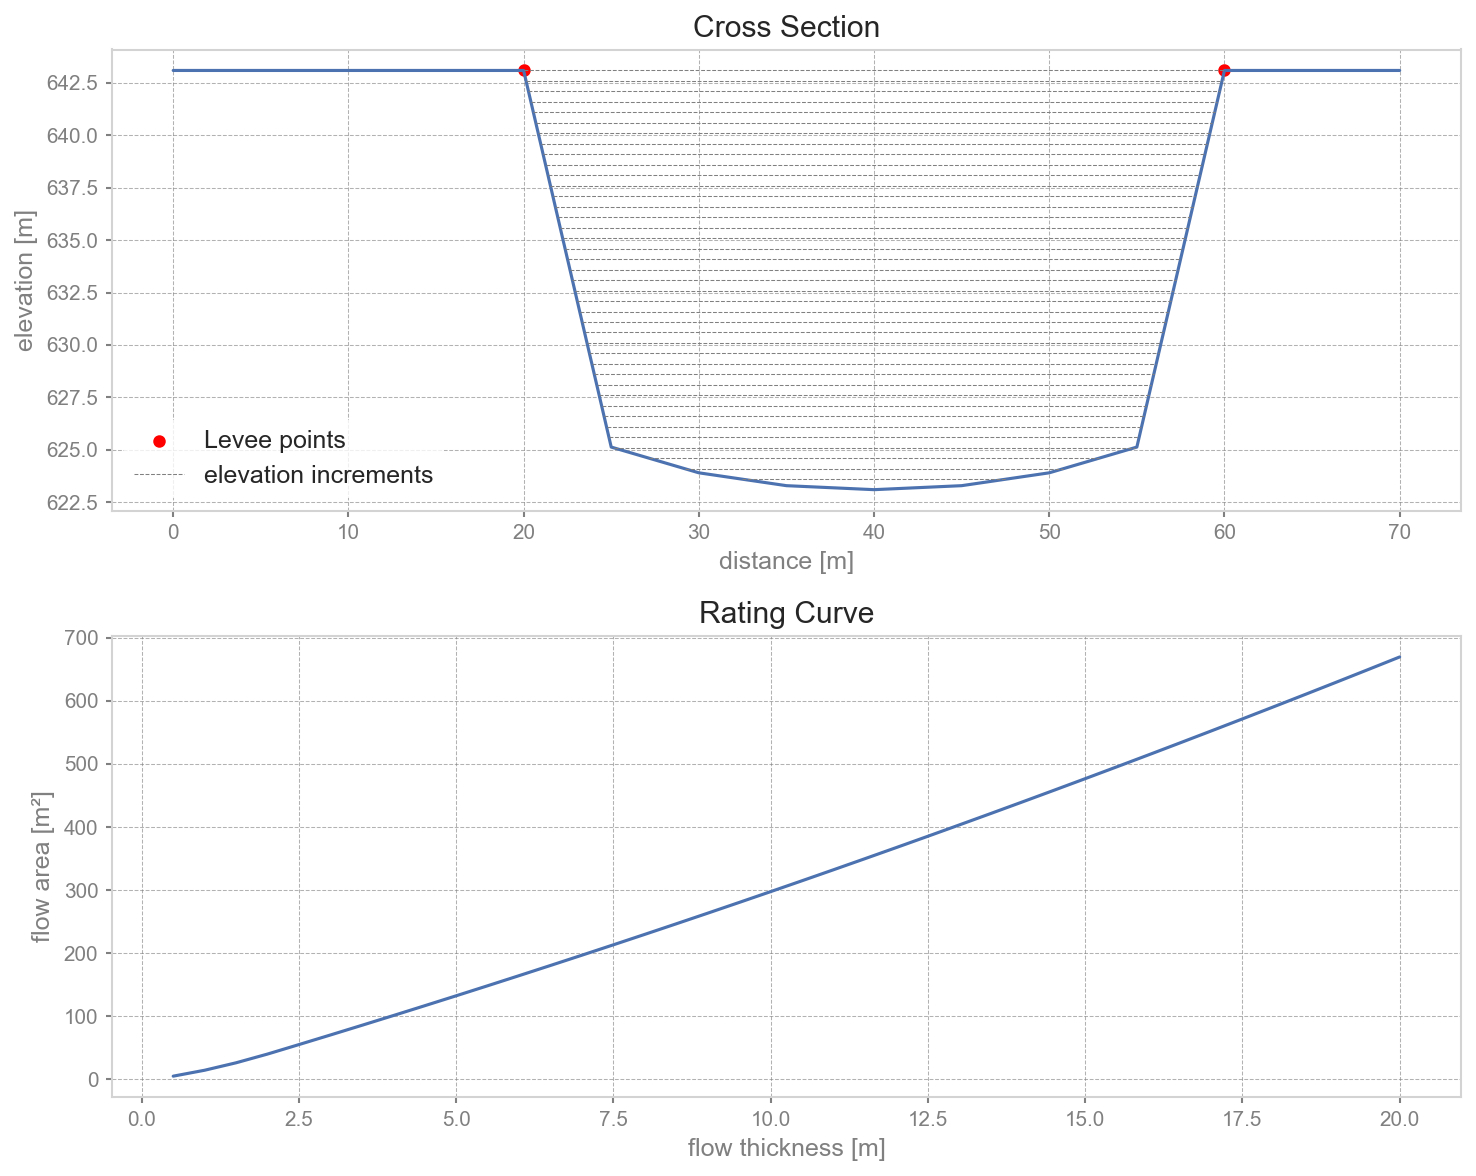
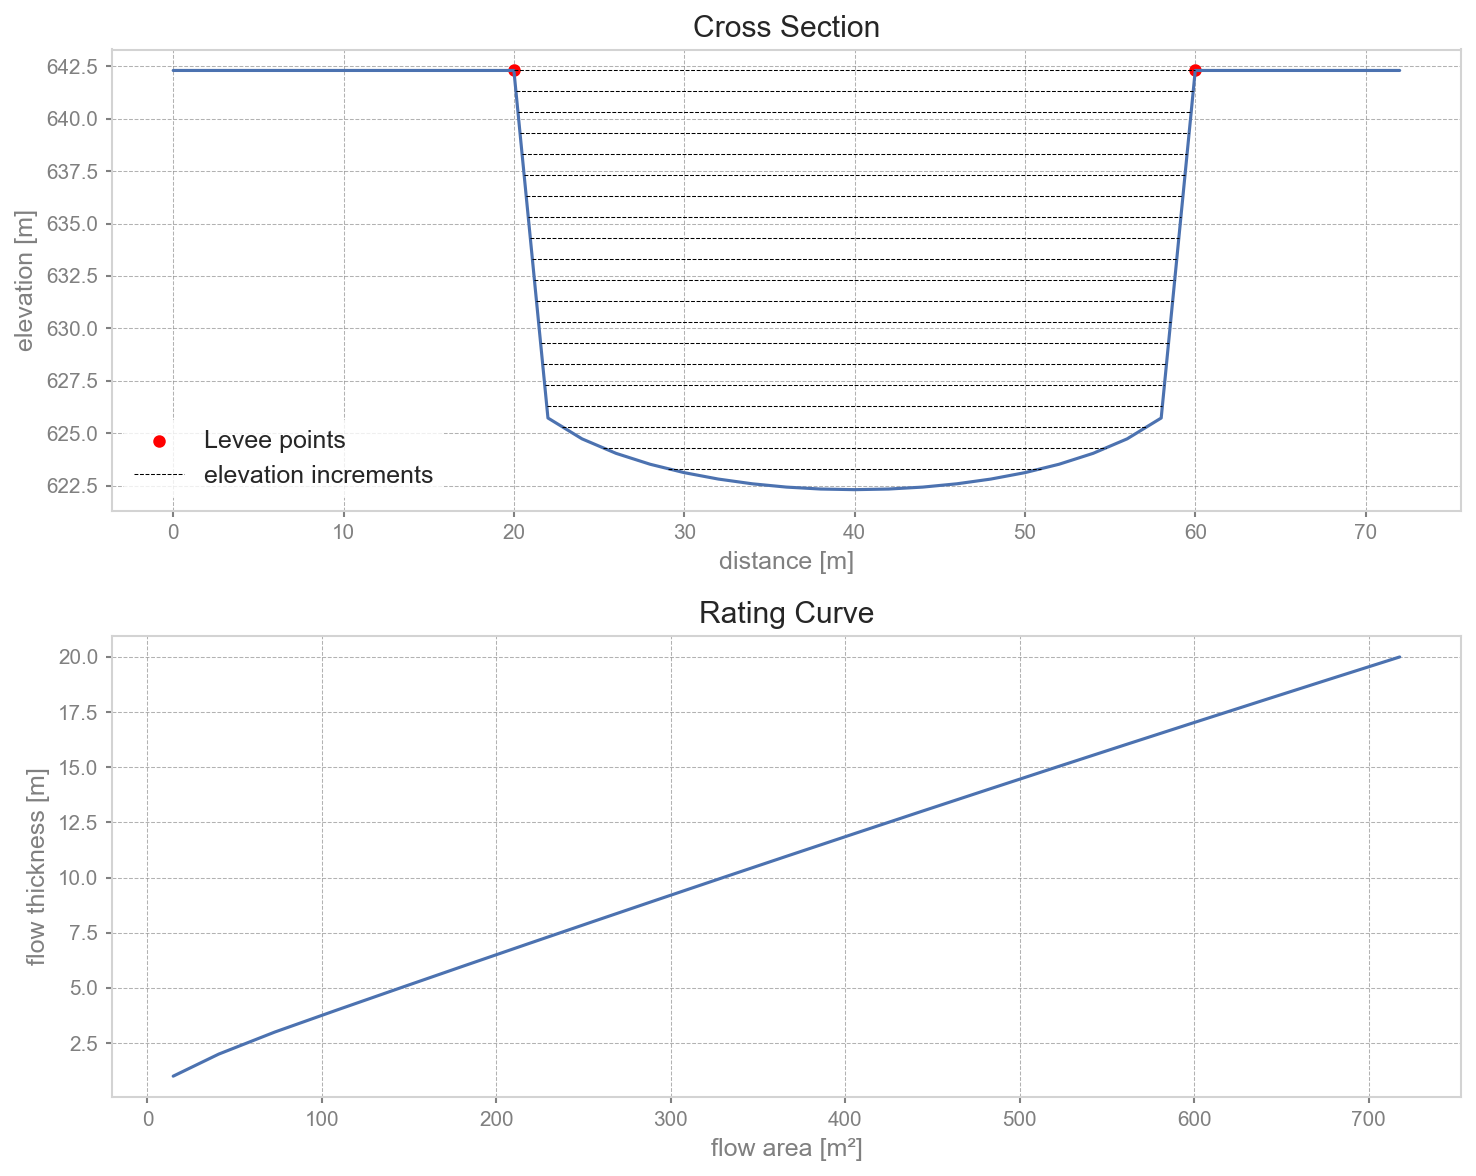
switch axes labels in rating curve plot

diff --git a/debrisframe/in2TopoHyd/in2TopoHyd.py b/debrisframe/in2TopoHyd/in2TopoHyd.py
@@ -113,7 +113,7 @@ def assignRasterCoords(cellSize, releaseLine):
     return releaseLine
 
 
-def computeSubArea(elevation, distance, surfElev, wetCellIdx, idx):
+def computeSubArea(elevation, distance, surfElev, idLevee, wetCellIdx, idx):
     """
     Computes flow subareas at the boundaries of a wetted cross section
     Handles the first (0) and last element (-1) of an index array
@@ -126,6 +126,8 @@ def computeSubArea(elevation, distance, surfElev, wetCellIdx, idx):
         the path along (distance) along the cross-section cells
     surfElev: float
         surface elevation of debris flow
+    idLevee: 1D-array
+        indices of levee points
     wetCellIdx: 1D-array
         indices of wetted cells
     idx: int
@@ -159,6 +161,9 @@ def computeSubArea(elevation, distance, surfElev, wetCellIdx, idx):
     else:
         dx = th / slope
 
+    if cellIdx in idLevee:
+        dx = 0.0
+
     subArea = 0.5 * th * dx
 
     return subArea, dx
@@ -166,7 +171,7 @@ def computeSubArea(elevation, distance, surfElev, wetCellIdx, idx):
 
 def computeRatingCurve(crossSection, topoHydCfg):
     """
-    compute relation between given discharge and flow thickness
+    compute relation between flow area and flow thickness
     in a given topographic cross section
 
     Parameters
@@ -217,7 +222,7 @@ def computeRatingCurve(crossSection, topoHydCfg):
         # search only in area between the two levee points
         idx = np.where(elevation[min(idLevee) : max(idLevee) + 1] <= surfElev)[0]
         idx = idx + min(idLevee)
-        # find breaking points in elevation array which lie over surfElev due to unevenness of ground 
+        # find breaking points in elevation array which lie over surfElev due to unevenness of ground
         idxOver = np.where(np.diff(idx) != 1)[0]
         # get subarrays between breaking points
         idxSub = np.split(idx, idxOver + 1)
@@ -237,10 +242,20 @@ def computeRatingCurve(crossSection, topoHydCfg):
             # if the thickness at the very left and the very right cell is still > 0,
             # there are remaining subareas on both sides that have to be considered
             areaLeft, dxLeft = computeSubArea(
-                elevation=elevation, distance=distance, surfElev=surfElev, wetCellIdx=sub, idx=0
+                elevation=elevation,
+                distance=distance,
+                surfElev=surfElev,
+                idLevee=idLevee,
+                wetCellIdx=sub,
+                idx=0,
             )
             areaRight, dxRight = computeSubArea(
-                elevation=elevation, distance=distance, surfElev=surfElev, wetCellIdx=sub, idx=-1
+                elevation=elevation,
+                distance=distance,
+                surfElev=surfElev,
+                idLevee=idLevee,
+                wetCellIdx=sub,
+                idx=-1,
             )
 
             # get cell elevations and distances between cells
@@ -696,7 +711,7 @@ def in2TopoHydMain(debrisDir, topoHydCfg, debrisCfg):
 
     """
 
-    #TODO: # Clean input directory(ies) of old work files?
+    # TODO: # Clean input directory(ies) of old work files?
     # initProj.cleanSingleAvaDir(debrisDir, deleteOutput=False)
 
     # create output directory
@@ -712,7 +727,7 @@ def in2TopoHydMain(debrisDir, topoHydCfg, debrisCfg):
     meshCellSize = debrisCfg.getfloat("com1DFA_com1DFA_override", "meshCellSize")
 
     if cellsize != meshCellSize:
-        #TODO: get fallback values from default config file?
+        # TODO: get fallback values from default config file?
         meshCellSizeThreshold = debrisCfg["com1DFA_com1DFA_override"].get(
             "meshCellSizeThreshold", fallback="0.001"
         )

diff --git a/debrisframe/in1Utils/plotUtils.py b/debrisframe/in1Utils/plotUtils.py
@@ -91,7 +91,7 @@ def plotRatingCurve(ratingCurve, crossSection, outputDir):
             xmin=minimum,
             xmax=maximum,
             linestyles="--",
-            colors="grey",
+            colors="black",
             lw=0.5,
             label="elevation increments" if i == 0 else "_nolegend_",
         )
@@ -100,9 +100,9 @@ def plotRatingCurve(ratingCurve, crossSection, outputDir):
     ax[0].set_title("Cross Section")
     ax[0].legend()
 
-    ax[1].plot(thickness, flowArea)
-    ax[1].set_xlabel("flow thickness [m]")
-    ax[1].set_ylabel("flow area [m²]")
+    ax[1].plot(flowArea, thickness)
+    ax[1].set_xlabel("flow area [m²]")
+    ax[1].set_ylabel("flow thickness [m]")
     ax[1].grid(color="gray", linestyle="--", linewidth=0.5, alpha=0.6)
     ax[1].set_title("Rating Curve")
 
